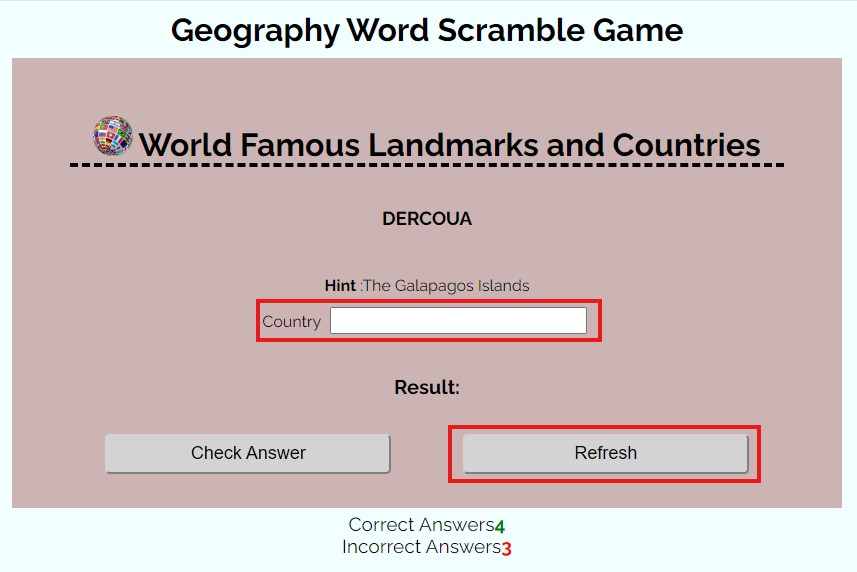
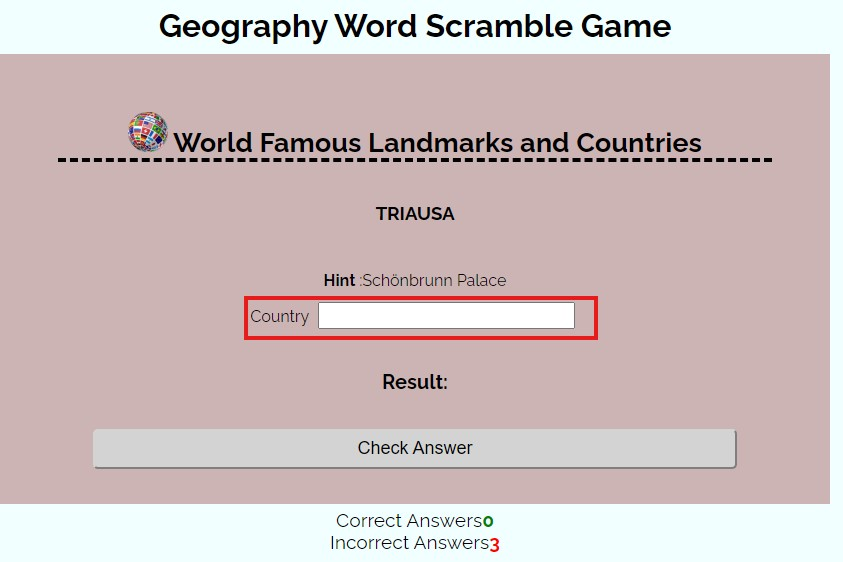
Comment out refresh button. updated with setTimeout 2' auto refresh and updated README.md

diff --git a/assets/js/script.js b/assets/js/script.js
@@ -1,5 +1,6 @@
 // country Array
-const country = ["Japan", "Italy", "Namibia", "France", "China", "Mexico", "India", "Bolivia", "Pakistan", "Egypt", "Peru", "Brazil", "Morocco", "South Korea",
+const country = [
+    "Japan", "Italy", "Namibia", "France", "China", "Mexico", "India", "Bolivia", "Pakistan", "Egypt", "Peru", "Brazil", "Morocco", "South Korea",
     "Greece", "Jordan", "Germany", "French Guiana", "United States of America", "Kenya", "Turkey", "Lebanon", "Croatia", "Tanzania", "Slovenia", "Sri Lanka",
     "Argentina", "Cambodia", "Australia", "Spain", "United Arab Emirate", "England", "Austria", "Iceland", "Philippines", "Czech Republic", "Guyana", "Bhutan",
     "Thailand", "Ecuador", "Zambia", "Nepal", "Russia", "South Africa", "Portugal", "Chile", "Venezuela", "Singapore", "Netherlands", "Sweden", "Albania", "Tibet", "Romania",
@@ -8,7 +9,8 @@ const country = ["Japan", "Italy", "Namibia", "France", "China", "Mexico", "Indi
 ];
 
 // hints  Array
-const hints = ["Fushimi Inari Taisha", "Colosseum", "Fish River Canyon", "Eiffel Tower", "Great Wall", "Chichen Itza", "Taj Mahal", "Lake Titicaca", "Badshahi Mosque",
+const hints = [
+    "Fushimi Inari Taisha", "Colosseum", "Fish River Canyon", "Eiffel Tower", "Great Wall", "Chichen Itza", "Taj Mahal", "Lake Titicaca", "Badshahi Mosque",
     "Pyramids of Giza", "Machu Picchu", "Christ the Redeemer", "Sahara Desert", "Gyeongbokgung Palace", "Acropolis", "Petra", "The Brandenburg Gate", "Salvation Islands",
     "The Golden Gate Bridge", "Masai Mara National Park", "The Blue Mosque", "Baalbek", "Plitvice Lakes National Park", "Kilimanjaro", "Lake Bled", "Sigiriya Lion Rock", 
     "Perito Moreno Glacier","Angkor Wat Temple Complex", "Great Barrier Reef", "Sagrada Familia", "Burj Khalifa", "Big Ben", "Schönbrunn Palace", "Sun Voyager", 
@@ -62,9 +64,11 @@ function check() {
         declaration.innerHTML = "Result: Incorrect";
         alert(`Hmmm...You answered ${input.value}. The correct answer is ${displayCountry}`);
         incrementIncorrectAnswer(); 
-    }
-       
+    } 
+    setTimeout(refresh, 2000);
 }
+
+
 
 // Event listener for keydown Enter
 document.getElementById("input").addEventListener("keydown", function (event) {
@@ -89,7 +93,6 @@ function incrementIncorrectAnswer() {
 
     let initialScore = (document.getElementById("incorrect").innerText);
     document.getElementById("incorrect").innerText = ++initialScore;
-
 }
 
 //Refresh and show new record
@@ -114,5 +117,4 @@ function refresh() {
     document.getElementById("declaration").innerText = "Result:";
 }
 
-// Function call when page load for first time 
 addEventListener("load", () => refresh());

diff --git a/index.html b/index.html
@@ -31,8 +31,7 @@
         </div>
         <h4 id="declaration">Result:</h4>
         <div id="footer">
-            <button type="button" onclick="check()">Check Answer</button>
-            <button type="button" onclick="refresh()">Refresh</button>
+            <button type="button" onclick="check()">Check Answer</button>   
         </div>
 
     </div>

diff --git a/assets/css/style.css b/assets/css/style.css
@@ -76,7 +76,7 @@ h4 {
 } 
   
 #footer>button { 
-    width: 48%; 
+    width: 100%; 
     padding: 1%; 
     margin: 5%; 
     background-color: lightgrey; 

diff --git a/README.md b/README.md
@@ -79,17 +79,18 @@ When a user click “check answer” a correct or incorrect answer alert display
 function check() {
     let input = document.getElementById("input");
     let declaration = document.getElementById("declaration");
-     
+
     if (input.value.toLocaleLowerCase().trim() === displayCountry.toLocaleLowerCase()) {
         declaration.innerHTML = "Result: Correct";
         alert("Fantastic, You Got It Right!!");
         incrementScore();
-    
-    } else{
+
+    } else {
         declaration.innerHTML = "Result: Incorrect";
         alert(`Hmmm...You answered ${input.value}. The correct answer is ${displayCountry}`);
-        incrementIncorrectAnswer();
-    }            
+        incrementIncorrectAnswer(); 
+    } 
+    setTimeout(refresh, 2000)  
 }
 ```
 ![correct-answer](./assets/readme-images/features-images/check%20answer-correct.jpg)
@@ -97,6 +98,7 @@ function check() {
 #### Result
 Once “ok” is clicked on the alert correct or incorrect is displayed on the Result tab.
 ![result](./assets/readme-images/features-images/result.jpg)
+![resul](./assets/readme-images/features-images/resul.jpg)
 #### Score Count
 Calculate the total number of correct and incorrect answers as the user progress with the game. 
 ```js
@@ -119,8 +121,8 @@ function incrementIncorrectAnswer() {
 }
 ```
 ![score-count](./assets/readme-images/features-images/score-count.jpg)
-#### Refresh
-This button refreshes and presents new records after answer is checked, ensures the input box is empty and cursor set at input box.
+#### Refresh function
+This function automatically refreshes and presents new records 2' after answer is checked (check()), ensures the input box is empty and cursor set at input box.
 ```js
 function refresh() {
 
@@ -145,7 +147,7 @@ function refresh() {
 ```
 ![refresh](./assets/readme-images/features-images/refresh.jpg)
 #### Future features Improvement
-Future improvement can be to add City, match city, country to hint and ensure city name is shuffled. Have two inputs for country and city. Score two points when user gets both correct and one point when user gets one correct.
+* Future improvement is to add City, match city, country to hint and ensure city name is shuffled. Have two inputs for country and city. Score two points when user gets both correct and one point when user gets one correct.
 ## Manual Testing
 ### Features Testing
 |Key Features|   User Value   |Functionality Test|Outcome|
@@ -155,7 +157,7 @@ Future improvement can be to add City, match city, country to hint and ensure ci
 |Input box|Used by user to input answer to the game|Step through the code and ensure is empty and listen to events.eg. “enter keydown”|Confirmed letters can be typed on input box  and “enter” keydown checks answer. ![input-boxft](./assets/readme-images/manual-test-images/features-test-images/input-boxft.jpg)|
 |Check Answer Correct and Incorrect Alert|Helps users to know if they have gotten the correct answer with reference to their input|Step through the code and ensure input is strictly equal to display country, if true alert correct answer, else alert incorrect answer|Confirmed that when input is strictly equal to displayed country correct answer alert is displayed if not incorrect answer alert is displayed. ![correct-answerft](./assets/readme-images/manual-test-images/features-test-images/correct-answerft.jpg) ![incorrect-answerft](./assets/readme-images/manual-test-images/features-test-images/incorrect-answerft.jpg)|
 |Score Count|Tallies the incorrect and correct answers for the user|Step through the code and ensure increment correct and incorrect functions are increased by 1 depending input of the user. Enter correct and incorrect answers on the game and count correct or incorrect answered.|Confirmed by playing the game and counting the number of correct and incorrect answered. ![score-countft](./assets/readme-images/manual-test-images/features-test-images/score-countft.jpg)|
-|Refresh|Allows the user to refresh for new records of hints and shuffled country name with empty input box and cursor focused on input box|While playing the game, after checking answer, click refresh |Confirmed, on clicking refresh, new records are displayed with empty input box and cursor focused on input box. ![refresh-ft](./assets/readme-images/manual-test-images/features-test-images/refresh-ft.jpg)|
+|Auto Refresh| Refreshes for new records of hints and shuffled country name with empty input box and cursor focused on input box after 2'|While playing the game, after checking answer, click refresh |Confirmed, new records are displayed with empty input box and cursor focused on input box after 2'. ![refresh-ft](./assets/readme-images/manual-test-images/features-test-images/refresh-ft.jpg)|
 
 ### Lighthouse Performance
 Confirmation that colors, font etc chosen are easy to read and accessible by running the site through lighthouse devtool
